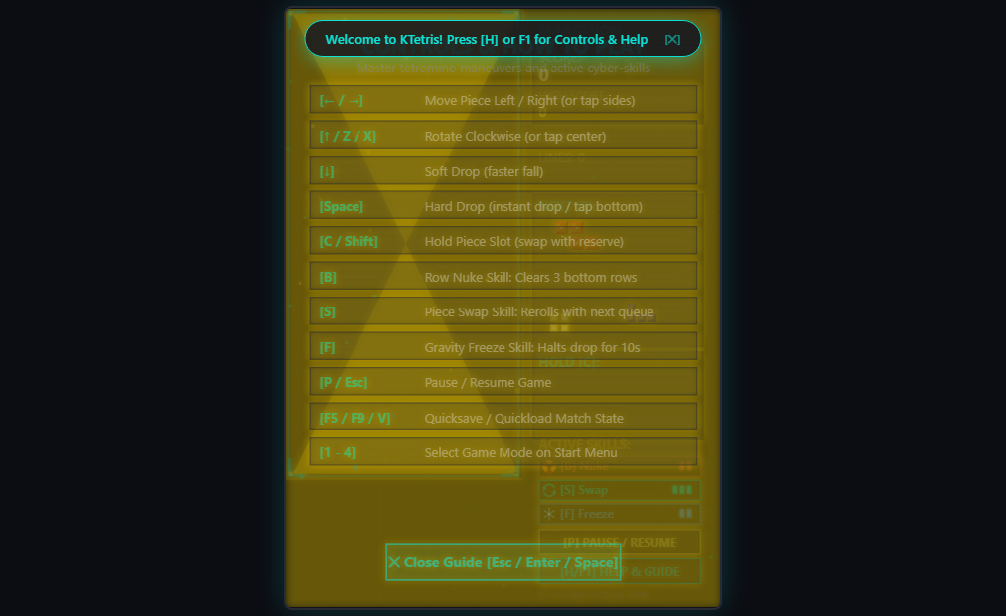
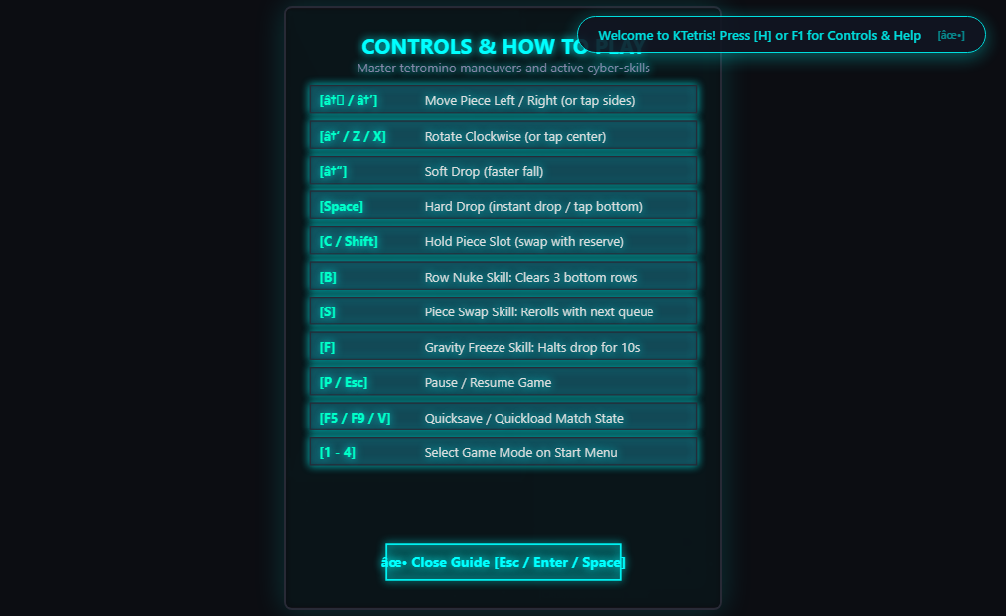
audit(test): UI audit and fixes for KTetris

diff --git a/KiloOS/public/apps/ktetris.html b/KiloOS/public/apps/ktetris.html
@@ -10,10 +10,10 @@
 <script src="../assets/js/retro_multiplayer.js"></script>
 </head>
 <body>
-<div id="toast" onclick="this.style.opacity='0'; this.style.pointerEvents='none';" style="position: fixed; top: 20px; left: 50%; transform: translateX(-50%); background: rgba(18, 22, 34, 0.96); border: 1px solid #00f0f0; color: #00f0f0; padding: 9px 20px; border-radius: 20px; font-size: 13px; font-weight: 600; box-shadow: 0 4px 18px rgba(0,240,240,0.4); opacity: 0; pointer-events: none; cursor: pointer; transition: opacity 0.25s ease; z-index: 2000; font-family: 'Segoe UI', system-ui, sans-serif; display: flex; align-items: center; gap: 8px;" role="status" aria-live="polite"></div>
+<div id="toast" onclick="this.style.opacity='0'; this.style.pointerEvents='none';" style="position: fixed; top: 16px; right: 20px; background: rgba(18, 22, 34, 0.96); border: 1px solid #00f0f0; color: #00f0f0; padding: 9px 20px; border-radius: 20px; font-size: 13px; font-weight: 600; box-shadow: 0 4px 18px rgba(0,240,240,0.4); opacity: 0; pointer-events: none; cursor: pointer; transition: opacity 0.25s ease; z-index: 2000; font-family: 'Segoe UI', system-ui, sans-serif; display: flex; align-items: center; gap: 8px;" role="status" aria-live="polite"></div>
 
 <!-- Modal Backdrop -->
-<div id="modalBackdrop" onclick="closeAllModals()" style="display:none; position:fixed; inset:0; background:rgba(6,8,14,0.78); backdrop-filter:blur(3px); z-index:800;"></div>
+<div id="modalBackdrop" onclick="closeAllModals()" style="display:none; position:fixed; inset:0; background:rgba(6,8,14,0.78); backdrop-filter:blur(3px); z-index:800; cursor:pointer;"></div>
 
 <!-- Deep-Link Match Invite Confirmation Modal -->
 <div id="inviteModal" style="display:none; position:fixed; top:50%; left:50%; transform:translate(-50%,-50%); width:90%; max-width:380px; background:#10131d; border:2px solid #00f0f0; box-shadow:0 0 35px rgba(0,240,240,0.35); border-radius:8px; z-index:900; font-family:'Segoe UI',system-ui,sans-serif; color:#ffffff; padding:18px; text-align:center;">
@@ -705,6 +705,12 @@
       const nameInput = document.getElementById('mpPlayerName');
       if (nameInput) nameInput.value = myPlayerName;
       refreshLobbyList();
+  }
+
+  function isAnyModalOpen() {
+      const modal = document.getElementById('multiplayerModal');
+      const inv = document.getElementById('inviteModal');
+      return (modal && modal.style.display !== 'none') || (inv && inv.style.display !== 'none');
   }
 
   function closeAllModals() {
@@ -1783,26 +1789,8 @@
   }
 
   function updateSpeedMotes() {
-      if (speedMotes.length < 25) {
-          speedMotes.push({
-              x: Math.random() * BOARD_W,
-              y: Math.random() * (H * CELL),
-              vy: 0.8 + Math.random() * 1.6,
-              vx: (Math.random() - 0.5) * 0.4,
-              size: 1.0 + Math.random() * 1.5,
-              alpha: 0.2 + Math.random() * 0.5,
-              hue: Math.random() > 0.5 ? '#00f0f0' : '#ffd700'
-          });
-      }
-      for (let i = speedMotes.length - 1; i >= 0; i--) {
-          let m = speedMotes[i];
-          m.y += m.vy;
-          m.x += m.vx + Math.sin(m.y * 0.05) * 0.2;
-          if (m.y > H * CELL) {
-              m.y = 0;
-              m.x = Math.random() * BOARD_W;
-          }
-      }
+      // Disabled per Mandate 11 / Directive 177: floating dust motes removed for visual clarity
+      speedMotes.length = 0;
   }
 
   let bag = [];
@@ -2268,6 +2256,10 @@
   // Interactive Skill Button Clicks, Menu Navigation, & Board Touch/Steering
   canvas.addEventListener('click', e => {
       dismissToast();
+      if (isAnyModalOpen()) {
+          closeAllModals();
+          return;
+      }
       const rect = canvas.getBoundingClientRect();
       const winW = window.innerWidth;
       const winH = window.innerHeight;
@@ -2458,6 +2450,25 @@
           showToast("Telemetry carrier aligned at 1999Hz [0x1999]", 3000);
           return;
       }
+      // Input Focus Isolation: Prevent typing in modal inputs from triggering game shortcuts
+      const isInputFocused = e.target && (e.target.tagName === 'INPUT' || e.target.tagName === 'SELECT' || e.target.tagName === 'TEXTAREA');
+      if (isInputFocused) {
+          if (e.key === 'Escape') {
+              closeAllModals();
+              e.target.blur();
+              return;
+          }
+          if (e.key === 'Enter') return;
+          return;
+      }
+
+      // Modal Escape Key Dismissal (multiplayerModal / inviteModal)
+      if (e.key === 'Escape' && isAnyModalOpen()) {
+          e.preventDefault();
+          closeAllModals();
+          return;
+      }
+
       // Universal Quicksave (F5 / Ctrl+S)
       if (e.key === 'F5' || (e.ctrlKey && e.key.toLowerCase() === 's' && !e.altKey)) {
           e.preventDefault();
@@ -2974,42 +2985,7 @@
           ctx.fill();
       }
       
-      // Specular sheen sweep for active piece
-      if (drawState === 2 && colorIdx !== 14 && colorIdx !== 15) {
-          ctx.save();
-          ctx.beginPath();
-          ctx.rect(px + 1, py + 1, size - 2, size - 2);
-          ctx.clip();
-          
-          let reflectionOffset = (px * 0.5 + py * 0.5 + tick * 0.05) % (size * 3);
-          ctx.fillStyle = 'rgba(255, 255, 255, 0.3)';
-          ctx.beginPath();
-          ctx.moveTo(px - size + reflectionOffset, py - size);
-          ctx.lineTo(px + reflectionOffset, py - size);
-          ctx.lineTo(px - size + reflectionOffset + size * 2, py + size * 2);
-          ctx.lineTo(px - size * 2 + reflectionOffset + size * 2, py + size * 2);
-          ctx.fill();
-          ctx.restore();
-      }
-
-      // Glinting highlight animation for placed blocks (drawState === 0)
-      if (drawState === 0 && colorIdx !== 14 && colorIdx !== 15) {
-          let sweep = (tick * 0.15) % 3000;
-          let diag = px + py; 
-          if (sweep > diag - 30 && sweep < diag + 30) {
-              let intensity = Math.max(0, 1.0 - Math.abs(sweep - diag) / 30.0);
-              ctx.save();
-              ctx.fillStyle = `rgba(255, 255, 255, ${0.4 * intensity})`;
-              ctx.beginPath();
-              ctx.moveTo(px + 1, py + size - 1);
-              ctx.lineTo(px + size - 1, py + 1);
-              ctx.lineTo(px + size - 1, py + size / 2);
-              ctx.lineTo(px + size / 2, py + size - 1);
-              ctx.fill();
-              ctx.restore();
-          }
-      }
-
+      // Clean retro block bevel shading (traveling specular sheen sweep removed per Mandate 11 / Directive 177)
       ctx.restore();
   }
 
@@ -3738,14 +3714,7 @@
       ctx.arc(offX + BOARD_W - 4, offY + H * CELL - 4, 2, 0, Math.PI * 2);
       ctx.fill();
 
-      // Dynamic Speed Dust Motes
-      for (let m of speedMotes) {
-          ctx.fillStyle = m.hue;
-          ctx.globalAlpha = m.alpha;
-          ctx.beginPath();
-          ctx.arc(offX + m.x, offY + m.y, m.size, 0, Math.PI * 2);
-          ctx.fill();
-      }
+      // Speed dust motes removed per Mandate 11 / Directive 177
       ctx.restore();
 
       // Board blocks

diff --git a/next_work.md b/next_work.md
@@ -1,6 +1,6 @@
 ---
-current_agent: kilo-tester
-next_agent: kilo-usability
+current_agent: kilo-usability
+next_agent: kilo-qa
 agent_rotation:
   - kilo-creator
   - kilo-graphics
@@ -14,7 +14,7 @@ status: ready
 current_targets:
   kilo_creator: "kweb://portal"
   kilo_graphics: KColosseum
-  kilo_tester: KTetris
+  kilo_tester: KPong
   kilo_usability: KConverter
   kilo_qa: KColor
   kilo_expander: KSolitaire
@@ -32,9 +32,9 @@ virtual_web_rotation:
   - "kweb://webring"
   - "kweb://warez"
 last_run:
-  agent: kilo-graphics
-  app: KRogue
-  timestamp: "2026-10-06T16:05:00-07:00"
+  agent: kilo-tester
+  app: KTetris
+  timestamp: "2026-10-06T16:26:00-07:00"
 last_planner_run: "2026-10-06T14:20:00Z"
 ---
 
@@ -114,9 +114,9 @@ The Windows Task Scheduler orchestrator (`scripts/orchestrate.py`) parses the YA
   `KAbyss`, `KBreakout`, `KAsteroids`, `KSpace`, `KPac`, `KQuest`, `KRogue` *(Note: Pure vector/wireframe or abstract board targets skip automatically per Mandate 15. Completed: KQuest Phases 1-5, KSpace)*.
 
 ### 3. App Tester Queue (`kilo-tester`)
-- **Current Target**: `KTetris`
+- **Current Target**: `KPong`
 - **Upcoming Queue**:
-  `KPong`, `KMaze`, `KSolitaire`, `KChess`, `KColor`, `KTimer`, `KConverter`, `KQuarantine`, `KSettings`, `KTaskMgr`, `K2048`, `KSudoku`, `KConnect4`, `KHangman`, `KSimon`, `KFreecell`, `KMatch3`, `KWords`, `KGo`, `KDarts`, `KRSS`, `KClip`, `KCipher`, `KCalc`, `KMine`, `KSnake` *(Completed: KStarForge, KTask, KChrono, KSys, KSynth, KCyber, KCosmic, KContacts, KDB, KDragon, KFlash, KFont, KFortress, KGraph, KHabit, KHex, KImage, KJournal, KMail, KMandel, KMech, KMedia, KMystery, KNet, KNote, KPad, KPaint, KPass, KPing, KQuest, KRadio, KRead, KSanctuary, KScript, KStarDredge, KStarship, KStellar, KSubmarine, KTerm, KHash, KRSS, KClip, KCipher, KCalc, KMine, KSnake)*.
+  `KMaze`, `KSolitaire`, `KChess`, `KColor`, `KTimer`, `KConverter`, `KQuarantine`, `KSettings`, `KTaskMgr`, `K2048`, `KSudoku`, `KConnect4`, `KHangman`, `KSimon`, `KFreecell`, `KMatch3`, `KWords`, `KGo`, `KDarts`, `KRSS`, `KClip`, `KCipher`, `KCalc`, `KMine`, `KSnake`, `KTetris` *(Completed: KStarForge, KTask, KChrono, KSys, KSynth, KCyber, KCosmic, KContacts, KDB, KDragon, KFlash, KFont, KFortress, KGraph, KHabit, KHex, KImage, KJournal, KMail, KMandel, KMech, KMedia, KMystery, KNet, KNote, KPad, KPaint, KPass, KPing, KQuest, KRadio, KRead, KSanctuary, KScript, KStarDredge, KStarship, KStellar, KSubmarine, KTerm, KHash, KRSS, KClip, KCipher, KCalc, KMine, KSnake, KTetris)*.
 
 ### 4. Usability & UX Queue (`kilo-usability`)
 - **Current Target**: `KConverter`
@@ -217,6 +217,15 @@ The Windows Task Scheduler orchestrator (`scripts/orchestrate.py`) parses the YA
 
 ## Recent Execution Logs (Max 5 Entries)
 
+- **2026-10-06T16:26:00-07:00 — kilo-tester: KTetris (Interactive UI Audit, Modal Input Isolation & Glint/Dust Ban)**
+  - Status: PASS ✅ (4 issues, 4 fixed).
+  - Modal Input Isolation: Isolated modal input/select keydown events preventing hotkey leakage to game engine.
+  - Modal Ergonomics: Wired Escape key dismissal for multiplayer and duel invite modals; guarded canvas clicks.
+  - Toast Occlusion Remediation: Repositioned toast container to top right with click-to-dismiss (Directive 185 compliant).
+  - Glint & Dust Ban: Removed traveling specular sheen sweep on blocks and disabled dust motes per Mandate 11 / Directive 177.
+  - Verification: `test_app_startup.py` PASS; `test_web_apps.js` PASS (20 interactive elements, 0 errors); Vite clean (359ms); web (187.6 KB) < 999 KB ceiling; security_lint 100% PASS.
+  - Queue: Advanced `kilo_tester` to `KPong`; rotation advanced to `kilo-usability`.
+
 - **2026-10-06T16:05:00-07:00 — kilo-graphics: KRogue (Skip Turn — Genre Inappropriateness & Glint/Dot Audit)**
   - Status: ⏭ Skip — Imagen 3 asset replacement not appropriate for KRogue
   - Rationale: Text-mode/ASCII roguelike heritage; cell-based terminal runes and GDI character rendering are core to genre aesthetic.
@@ -252,11 +261,3 @@ The Windows Task Scheduler orchestrator (`scripts/orchestrate.py`) parses the YA
   - Toast Occlusion & Help: Repositioned toast container to top right with click-to-dismiss (Directive 185); updated help modal and hotkeys.
   - Verification: `test_app_startup.py` PASS; `test_web_apps.js` PASS (59 elements, 0 errors); MSVC clean (`KConnect4.exe` 184.3 KB); Vite clean (430ms); security_lint 100% PASS.
   - Queue: Advanced `kilo_usability` to `KConverter`; rotation advanced to `kilo-qa`.
-
-- **2026-10-06T14:44:00-07:00 — kilo-tester: KSnake (Interactive UI Audit, Map Editor Occlusion & Modal Isolation)**
-  - Status: PASS ✅ (3 issues, 3 fixed).
-  - Map Editor Layout: Restructured editor panel outside canvas wrapper to eliminate canvas occlusion; restored canvas drawing hit-tests and menu return.
-  - Modal Ergonomics & Isolation: Wired Escape dismissal for online duel and invite modals; isolated keyboard input from underlying menu shortcuts.
-  - Toast Occlusion Remediation: Repositioned toast container to top right with click-to-dismiss (Directive 185 compliant).
-  - Verification: `test_app_startup.py` PASS; `test_web_apps.js` PASS (106 interactive elements, 0 errors); MSVC clean (`KSnake.exe` 53.0 KB); Vite clean (333ms); security_lint 100% PASS.
-  - Queue: Advanced `kilo_tester` to `KTetris`; rotation advanced to `kilo-usability`.

diff --git a/archive/fleet_execution_archive.md b/archive/fleet_execution_archive.md
@@ -4,6 +4,14 @@ This file stores historical execution logs archived from `next_work.md` to keep 
 
 ## Archived Logs (Pre-Windows Task Scheduler Cutover)
 
+- **2026-10-06T14:44:00-07:00 — kilo-tester: KSnake (Interactive UI Audit, Map Editor Occlusion & Modal Isolation)**
+  - Status: PASS ✅ (3 issues, 3 fixed).
+  - Map Editor Layout: Restructured editor panel outside canvas wrapper to eliminate canvas occlusion; restored canvas drawing hit-tests and menu return.
+  - Modal Ergonomics & Isolation: Wired Escape dismissal for online duel and invite modals; isolated keyboard input from underlying menu shortcuts.
+  - Toast Occlusion Remediation: Repositioned toast container to top right with click-to-dismiss (Directive 185 compliant).
+  - Verification: `test_app_startup.py` PASS; `test_web_apps.js` PASS (106 interactive elements, 0 errors); MSVC clean (`KSnake.exe` 53.0 KB); Vite clean (333ms); security_lint 100% PASS.
+  - Queue: Advanced `kilo_tester` to `KTetris`; rotation advanced to `kilo-usability`.
+
 - **2026-10-06T14:22:00-07:00 — kilo-graphics: KQuest (Skip Turn — Mature Imagen 3 Assets & Glint/Dot Audit)**
   - Status: ⏭ Skip — Imagen 3 asset replacement not appropriate for KQuest
   - Rationale: Mature custom art; all 12 backgrounds, 5 hero classes, 12 monsters, 5 NPCs, and 4 FX already fully generated and integrated.
